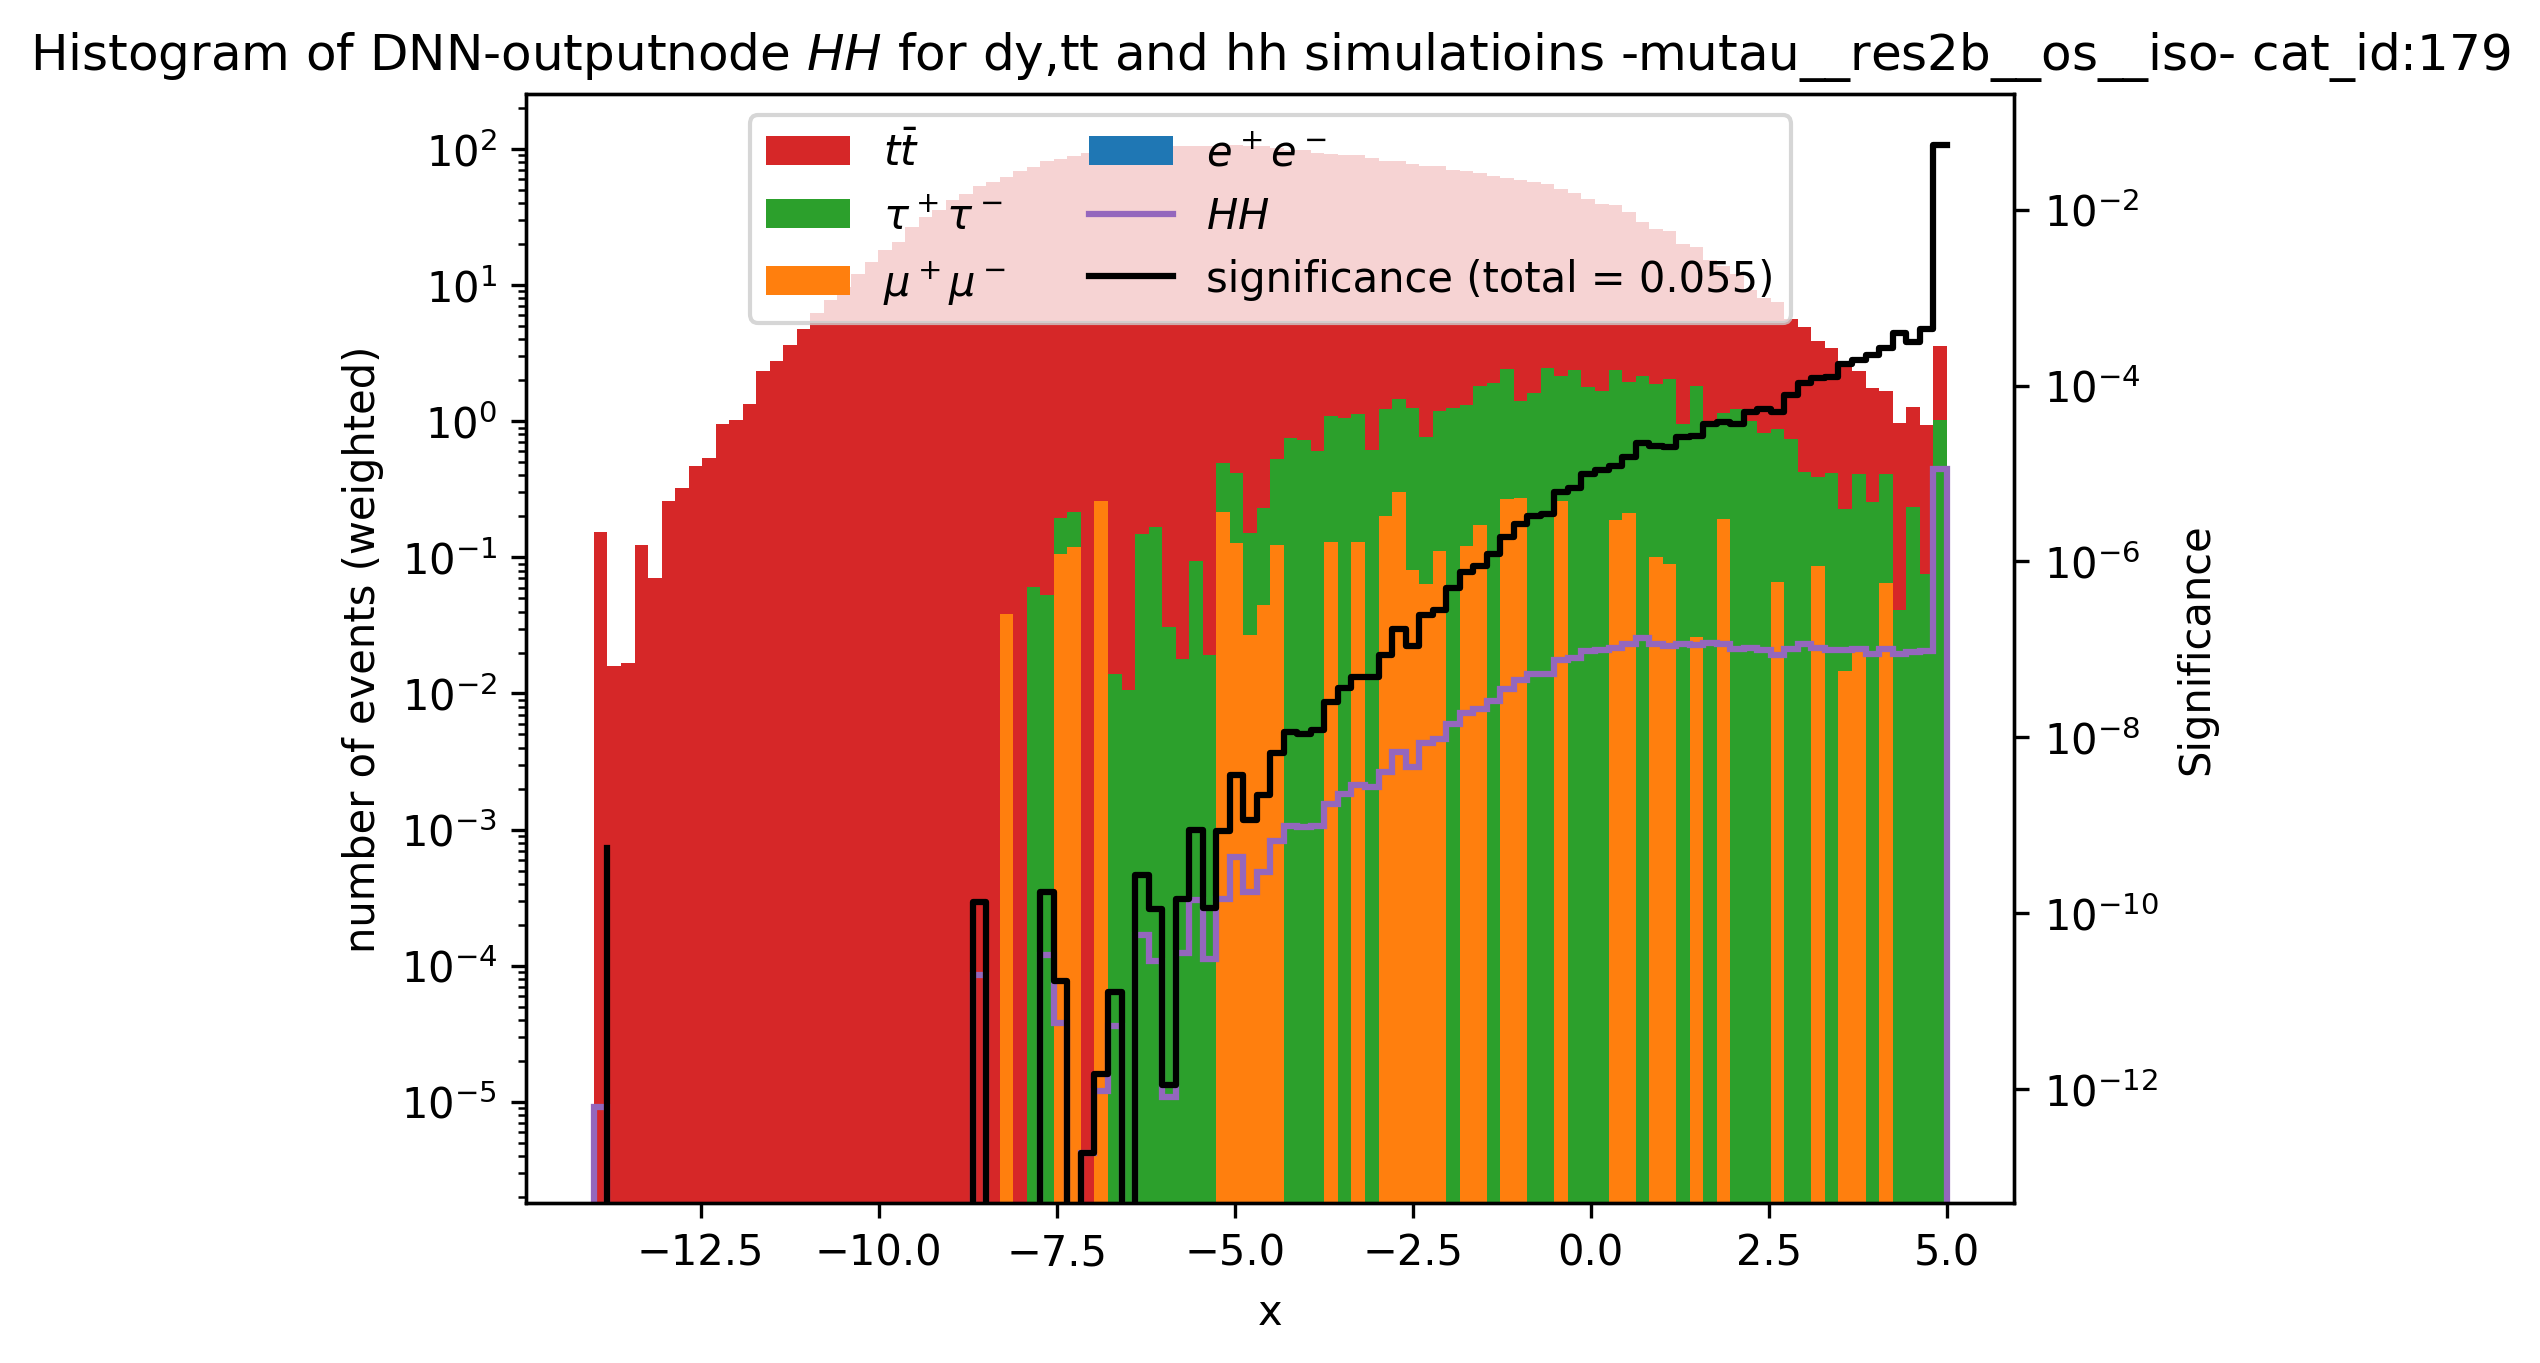
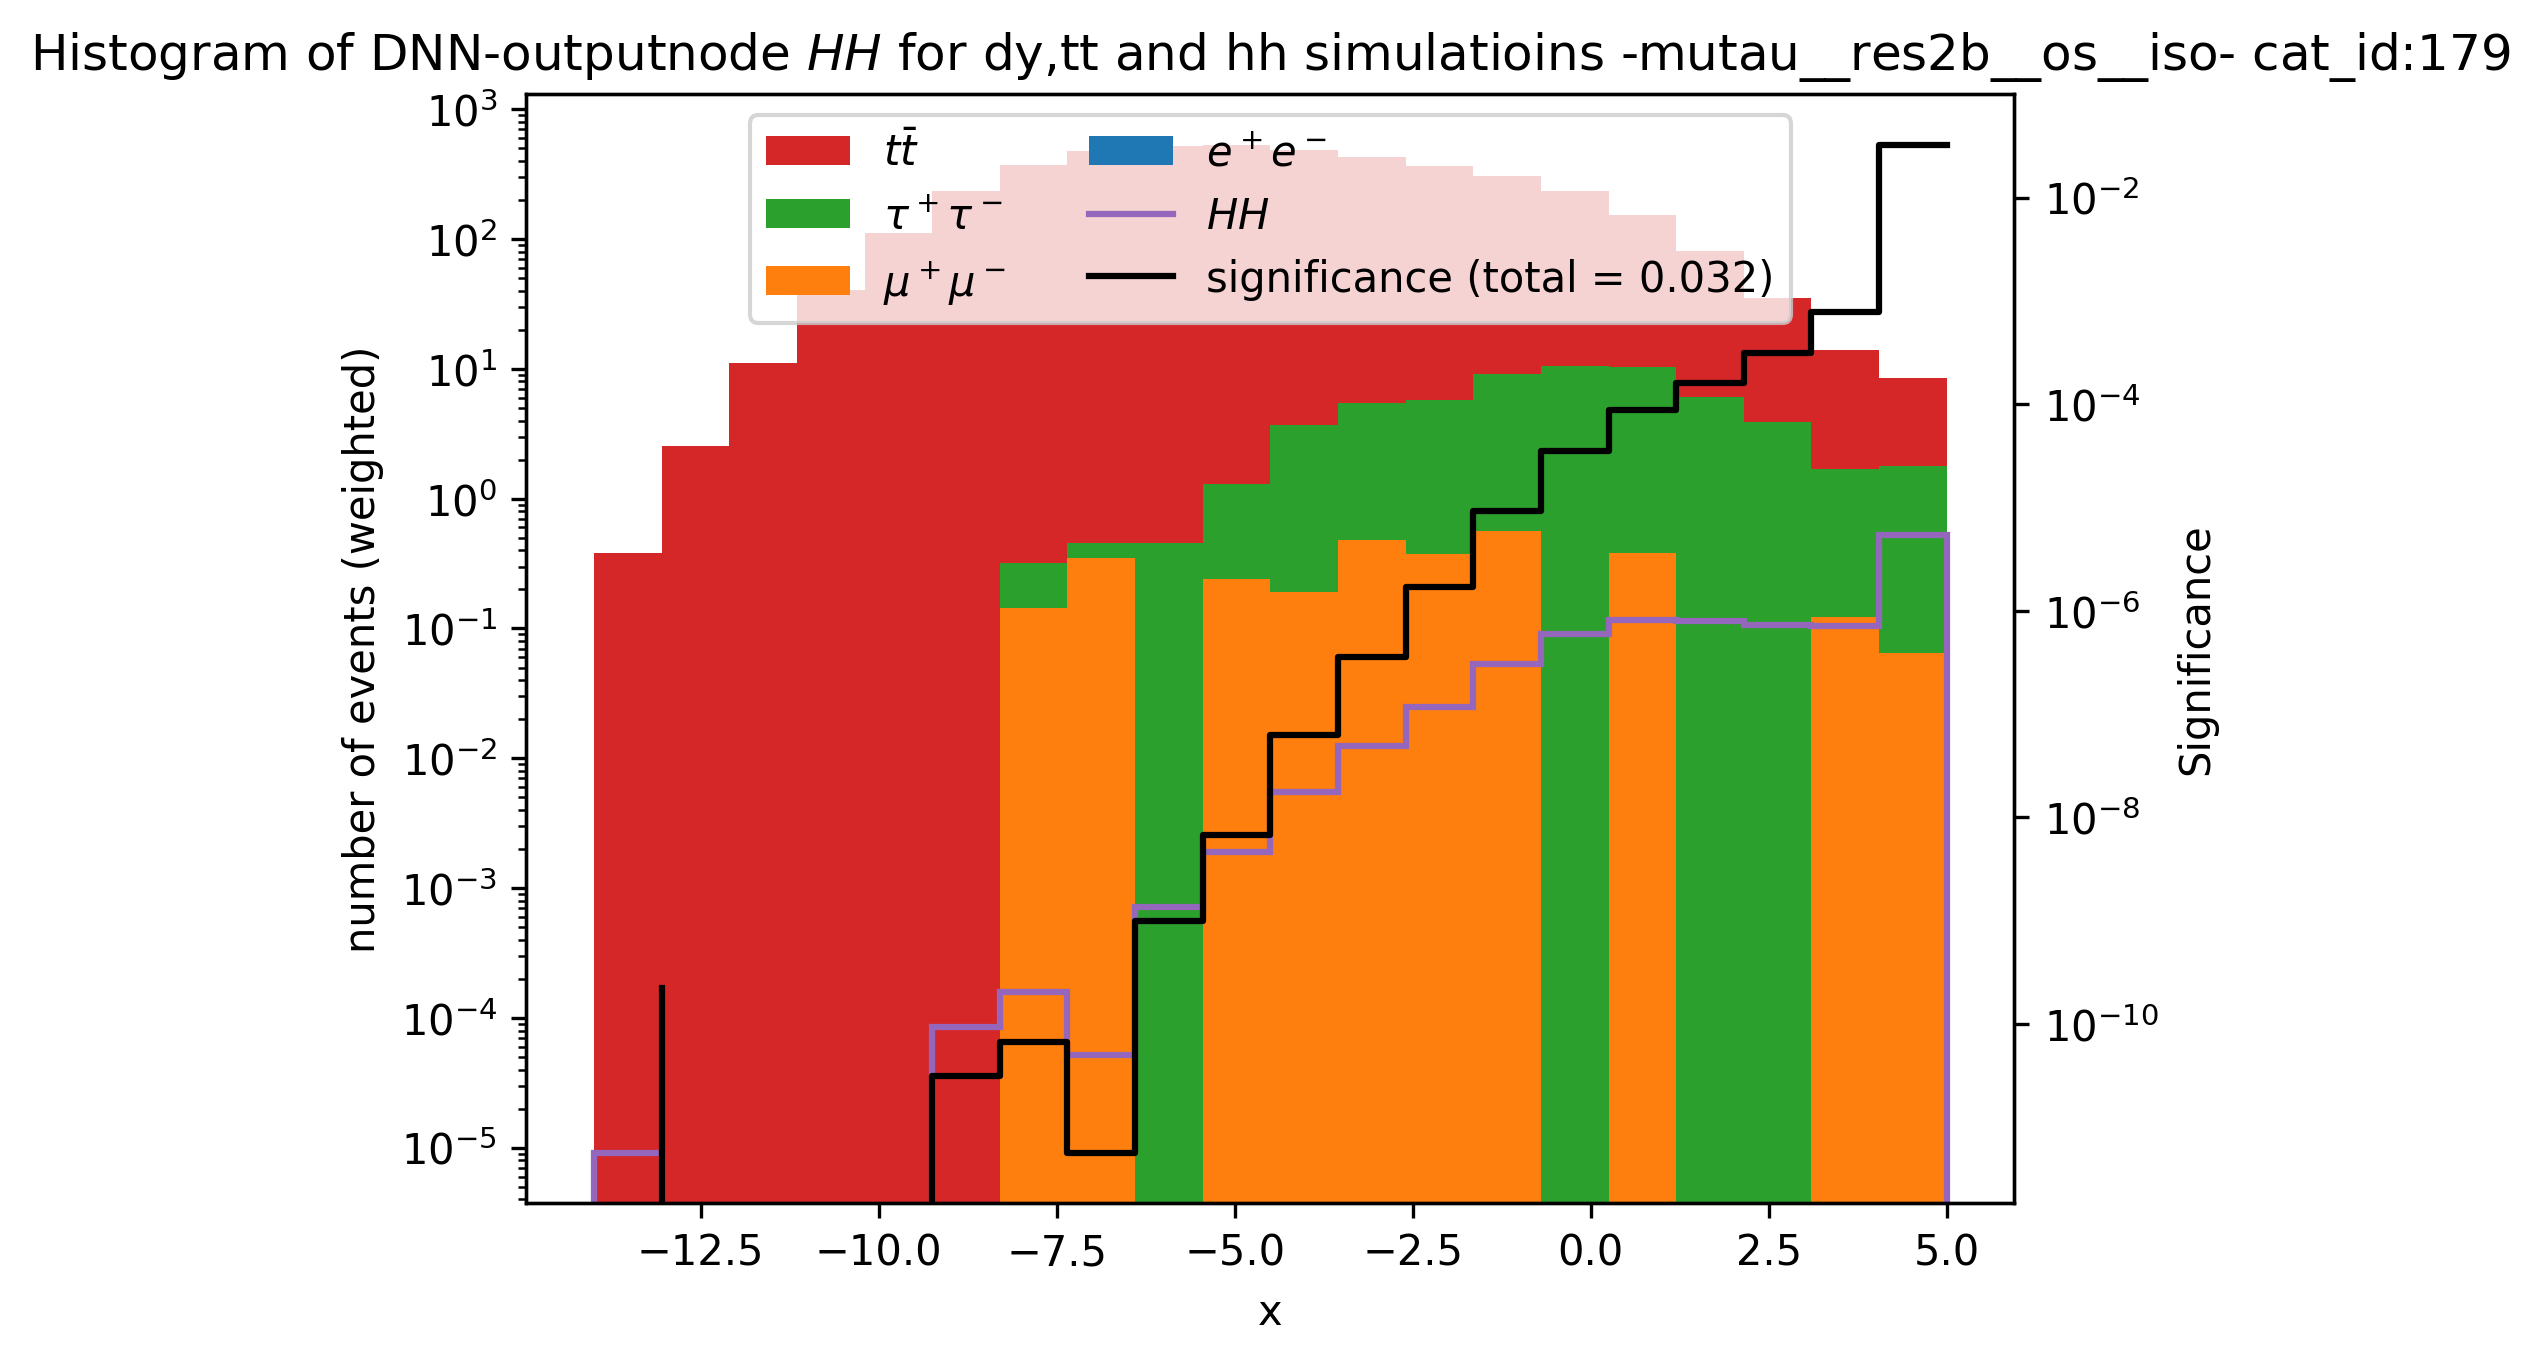
signifikanzen nochmal überarbeitet

diff --git a/plotting/hists_1_logit.py b/plotting/hists_1_logit.py
@@ -9,20 +9,32 @@ events_dy = ak.from_parquet("/data/dust/user/wolfmor/hh2bbtautau/vincent/dy_22pr
 events_tt = ak.from_parquet("/data/dust/user/wolfmor/hh2bbtautau/vincent/tt_22pre_v14.parquet")  # tt simulation data
 events_hh = ak.from_parquet("/data/dust/user/wolfmor/hh2bbtautau/vincent/hh_22pre_v14.parquet")  # hh simulation data
 
+# events_hh = events_hh[events_hh.run3_dnn_moe_hh > 0]
+# events_tt = events_tt[events_tt.run3_dnn_moe_hh > 0]
+# events_dy = events_dy[events_dy.run3_dnn_moe_hh > 0]
+
 #logit funktion definieren
 def stable_logit(x, eps=1e-6, limit=5.0):
     x = np.clip(x, eps, 1 - eps) # Begrenzt x auf [0.000001, 0.999999]
     y = np.log(x / (1 - x))
     return np.clip(y,-14, limit-1e-5)
 
+# #alternative logit funktion definieren
+# eps=1e-6
+# def stable_logit(x):
+#     # set this fct to return x for normal scale
+#     y = np.log((x + eps) / (1 - x + eps))
+#     return np.clip(y, -14, 5-eps)
+
+
 #Histogramme definieren, 2-D für dy wegen Unterteilung
 dy = Hist(
     hist.axis.StrCategory([], name="Zerfallskanal", growth=True),  #diese Achse wird später gestacked
-    hist.axis.Regular(bins=100, start=-14, stop=5, name="x")
+    hist.axis.Regular(bins=20, start=-14, stop=5, name="x")
 )
-tt = Hist(hist.axis.Regular(bins=100, start=-14, stop=5, name="x"))
-hh = Hist(hist.axis.Regular(bins=100, start=-14, stop=5, name="x"))
-s = Hist(hist.axis.Regular(bins=100, start=-14, stop=5, name="x"))
+tt = Hist(hist.axis.Regular(bins=20, start=-14, stop=5, name="x"))
+hh = Hist(hist.axis.Regular(bins=20, start=-14, stop=5, name="x"))
+s = Hist(hist.axis.Regular(bins=20, start=-14, stop=5, name="x"))
 
 #Namen der decay channel definieren:
 channelname=["e-tau", "mu-tau", "tau-tau"]
@@ -31,7 +43,7 @@ channelname_r=[r"$\tau_e\tau_h$",r"$\tau_\mu\tau_h$",r"$\tau_h\tau_h$"]
 
 #1. Histogramme nach channel aufteilen, fillen (für dy nach Zerfallskanal aufteilen + stacken), plotten.
 for i in [1,2,3]:
-    dy.fill(x=stable_logit(events_dy.run3_dnn_moe_hh[(events_dy.channel_id == i) & (events_dy.gen_ll_pdgid == 11)]),Zerfallskanal=r"gen: DY $\to e^+e^-$", weight=events_dy.event_weight[(events_dy.channel_id == i) & (events_dy.gen_ll_pdgid == 11)])    #maske für channel (und bei dy Zerfallskanal) in eckigen Klammern
+    dy.fill(x=stable_logit(events_dy.run3_dnn_moe_hh[(events_dy.channel_id == i) & (events_dy.gen_ll_pdgid == 11)]),Zerfallskanal=r"gen: DY $\to e^+e^-$", weight=events_dy.event_weight[(events_dy.channel_id == i) & (events_dy.gen_ll_pdgid == 11)])    #durch die channel id masken wird insgesamt nichts weggeschnitten, (jedes event ist abgedeckt mit einer channel id)
     dy.fill(x=stable_logit(events_dy.run3_dnn_moe_hh[(events_dy.channel_id == i) & (events_dy.gen_ll_pdgid == 13)]),Zerfallskanal=r"gen: DY $\to \mu^+\mu^-$", weight=events_dy.event_weight[(events_dy.channel_id == i) & (events_dy.gen_ll_pdgid == 13)])
     dy.fill(x=stable_logit(events_dy.run3_dnn_moe_hh[(events_dy.channel_id == i) & (events_dy.gen_ll_pdgid == 15)]),Zerfallskanal=r"gen: DY $\to \tau^+\tau^-$", weight=events_dy.event_weight[(events_dy.channel_id == i) & (events_dy.gen_ll_pdgid == 15)])
 
@@ -57,7 +69,7 @@ for i in [1,2,3]:
     significance = signal_bins**2/background_bins
     significance_total = round(np.sqrt(np.sum(significance**2)),3)
     ax2 = ax1.twinx()  # Erstellt die rechte Achse
-    ax2.step(np.linspace(-14+19/100, 5, 100),significance, label=f"significance (total = {significance_total})", color="black")
+    ax2.step(np.linspace(-14+19/20, 5, 20),significance, label=f"significance (total = {significance_total})", color="black")
     ax2.set_ylabel('Significance')
     ax2.tick_params(axis='y', labelcolor='black')
 
@@ -107,10 +119,11 @@ for i in [1,2,3]: #i steht für den channel
     background_bins = np.sum(dy.values(),axis=0)
     signal_bins = hh.values()
     significance = signal_bins**2/background_bins
-    significance = np.nan_to_num(significance, nan=0.0)
+    #significance = np.nan_to_num(significance, nan=0.0)
     significance_total = round(np.sqrt(np.sum(significance**2)),3)
+    from IPython import embed; embed(header="MESSAGE Line 112 | File: hists_1_logit.py")
     ax2 = ax1.twinx()  # Erstellt die rechte Achse
-    ax2.step(np.linspace(-14+19/100, 5, 100),significance, label=f"significance (total = {significance_total})", color="black")
+    ax2.step(np.linspace(-14+19/20, 5, 20),significance, label=f"significance (total = {significance_total})", color="black")
     ax2.set_ylabel('Significance')
     ax2.tick_params(axis='y', labelcolor='black')
 

diff --git a/plotting/hists_2_subdevided_logit.py b/plotting/hists_2_subdevided_logit.py
@@ -9,19 +9,25 @@ events_tt = ak.from_parquet("/data/dust/user/wolfmor/hh2bbtautau/vincent/tt_22pr
 events_hh = ak.from_parquet("/data/dust/user/wolfmor/hh2bbtautau/vincent/hh_22pre_v14.parquet")  # hh simulation data
 
 #logit funktion definieren
-def stable_logit(x, eps=1e-6, limit=5.0):
-    x = np.clip(x, eps, 1 - eps) # Begrenzt x auf [0.000001, 0.999999]
-    y = np.log(x / (1 - x))
-    return np.clip(y,-14, limit-1e-5)
+# def stable_logit(x, eps=1e-6, limit=5.0):
+#     x = np.clip(x, eps, 1 - eps) # Begrenzt x auf [0.000001, 0.999999]
+#     y = np.log(x / (1 - x))
+#     return np.clip(y,-14, limit-1e-5)
+
+#alternative logit funktion definieren
+def logit(x):
+    # set this fct to return x for normal scale
+    y = np.log((x + eps) / (1 - x + eps))
+    return np.clip(y, -14, 5-eps)
 
 #Histogramme definieren, 2-D für dy wegen Unterteilung
 dy = Hist(
     hist.axis.StrCategory([], name="Zerfallskanal", growth=True),  #diese Achse wird später gestacked
-    hist.axis.Regular(bins=100, start=-14, stop=5, name="x")
+    hist.axis.Regular(bins=20, start=-14, stop=5, name="x")
 )
 
-tt = Hist(hist.axis.Regular(bins=100, start=-14, stop=5, name="x"))
-hh = Hist(hist.axis.Regular(bins=100, start=-14, stop=5, name="x"))
+tt = Hist(hist.axis.Regular(bins=20, start=-14, stop=5, name="x"))
+hh = Hist(hist.axis.Regular(bins=20, start=-14, stop=5, name="x"))
 
 #Namen der decay channel definieren:
 channelname=["e-tau", "mu-tau", "tau-tau"]
@@ -101,10 +107,10 @@ for i in [1,2,3]: #i steht für den channel
     background_bins = np.sum(dy.values(),axis=0)
     signal_bins = hh.values()
     significance = signal_bins**2/background_bins
-    significance = np.nan_to_num(significance, nan=0.0)
+    #significance = np.nan_to_num(significance, nan=0.0)
     significance_total = round(np.sqrt(np.sum(significance**2)),3)
     ax2 = ax1.twinx()  # Erstellt die rechte Achse
-    ax2.step(np.linspace(-14+19/100, 5, 100),significance, label=f"significance (total = {significance_total})", color="black")
+    ax2.step(np.linspace(-14+19/20, 5, 20),significance, label=f"significance (total = {significance_total})", color="black")
     ax2.set_ylabel('Significance')
     ax2.tick_params(axis='y', labelcolor='black')
 
@@ -134,7 +140,7 @@ IDs=["etau__res1b__os__iso","etau__res2b__os__iso","mutau__res1b__os__iso","muta
 #Neudefinition von dy ist wichtig!
 dy = Hist(
     hist.axis.StrCategory([], name="Zerfallskanal", growth=True),  #diese Achse wird später gestacked
-    hist.axis.Regular(bins=100, start=-14, stop=5, name="x")
+    hist.axis.Regular(bins=20, start=-14, stop=5, name="x")
 )
 
 for i,id in enumerate([147,151,175,179,203,207],start=0): #id steht für category ids, i ist index
@@ -160,10 +166,10 @@ for i,id in enumerate([147,151,175,179,203,207],start=0): #id steht für categor
     background_bins = np.sum(dy.values(),axis=0)
     signal_bins = hh.values()
     significance = signal_bins**2/background_bins
-    significance = np.nan_to_num(significance, nan=0.0)
+    #significance = np.nan_to_num(significance, nan=0.0)
     significance_total = round(np.sqrt(np.sum(significance**2)),3)
     ax2 = ax1.twinx()  # Erstellt die rechte Achse
-    ax2.step(np.linspace(-14+19/100, 5, 100),significance, label=f"significance (total = {significance_total})", color="black")
+    ax2.step(np.linspace(-14+19/20, 5, 20),significance, label=f"significance (total = {significance_total})", color="black")
     ax2.set_ylabel('Significance')
     ax2.tick_params(axis='y', labelcolor='black')
 
